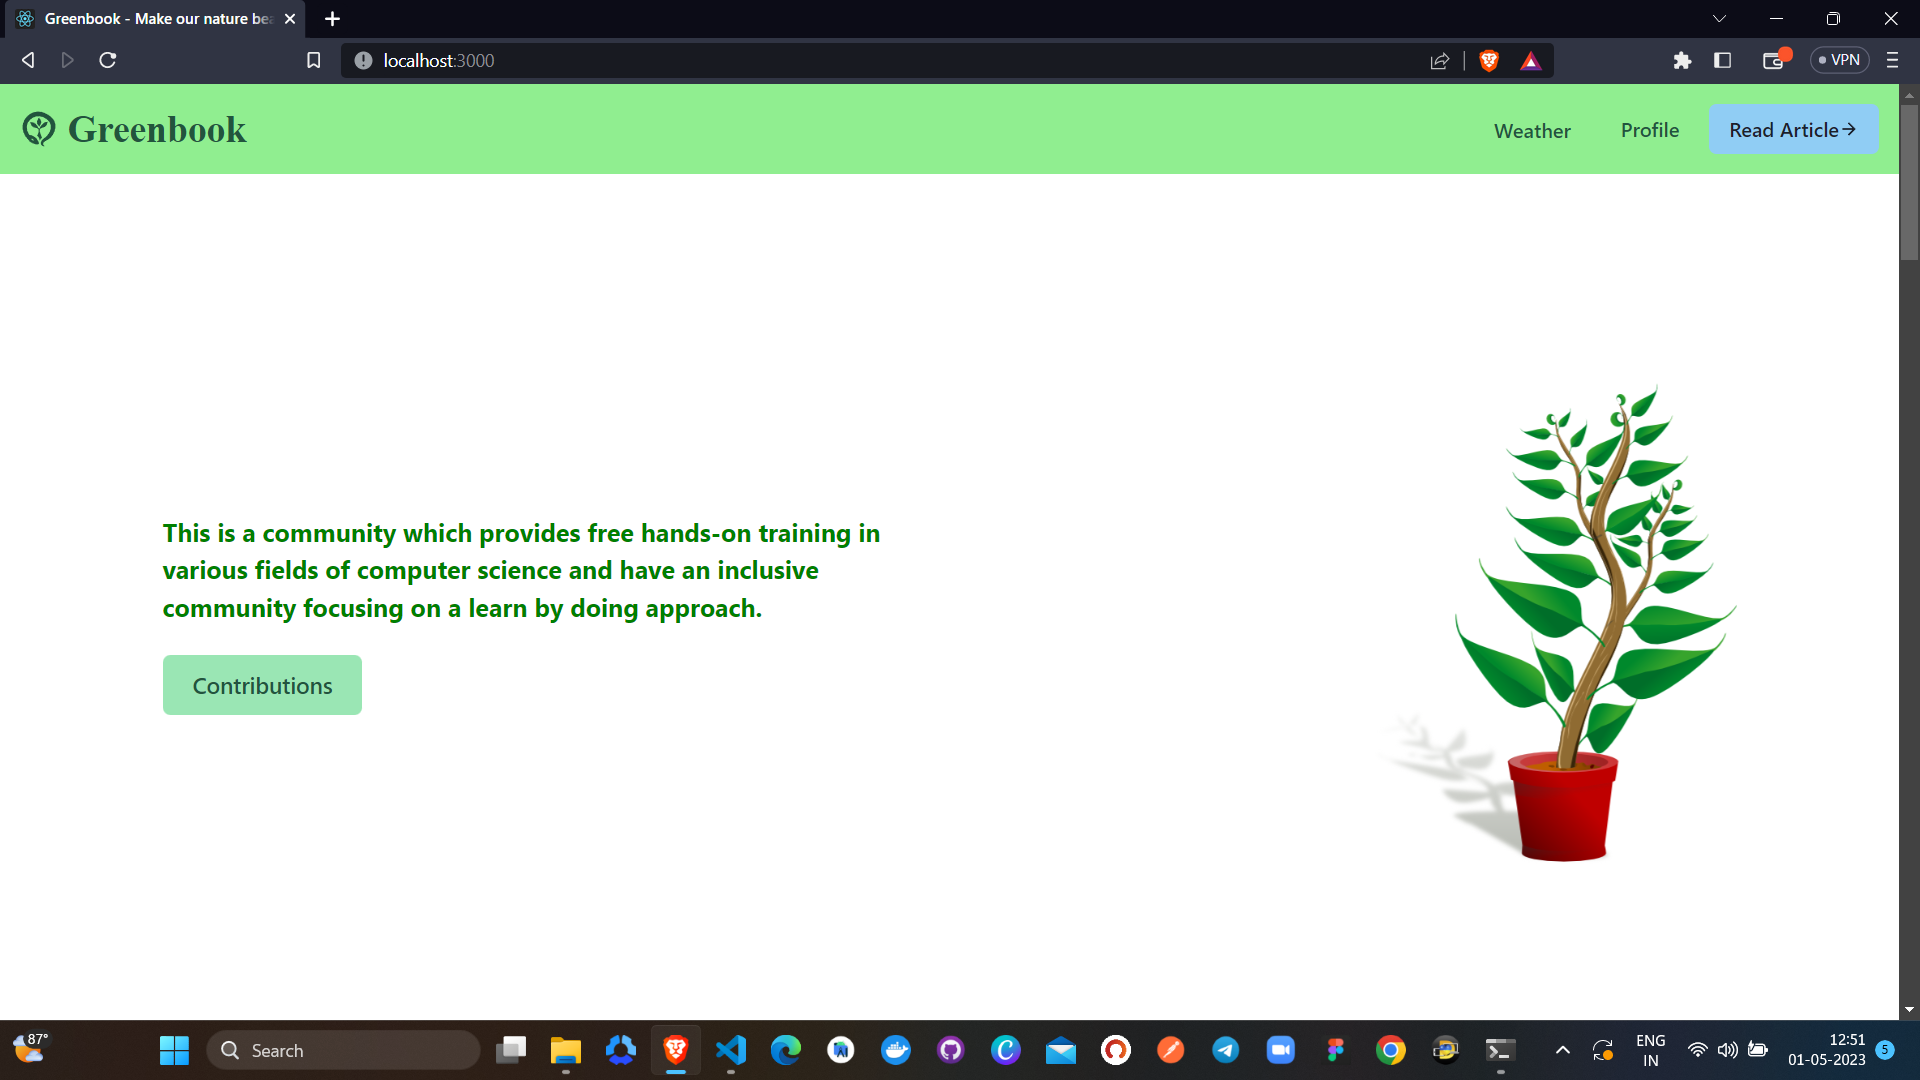
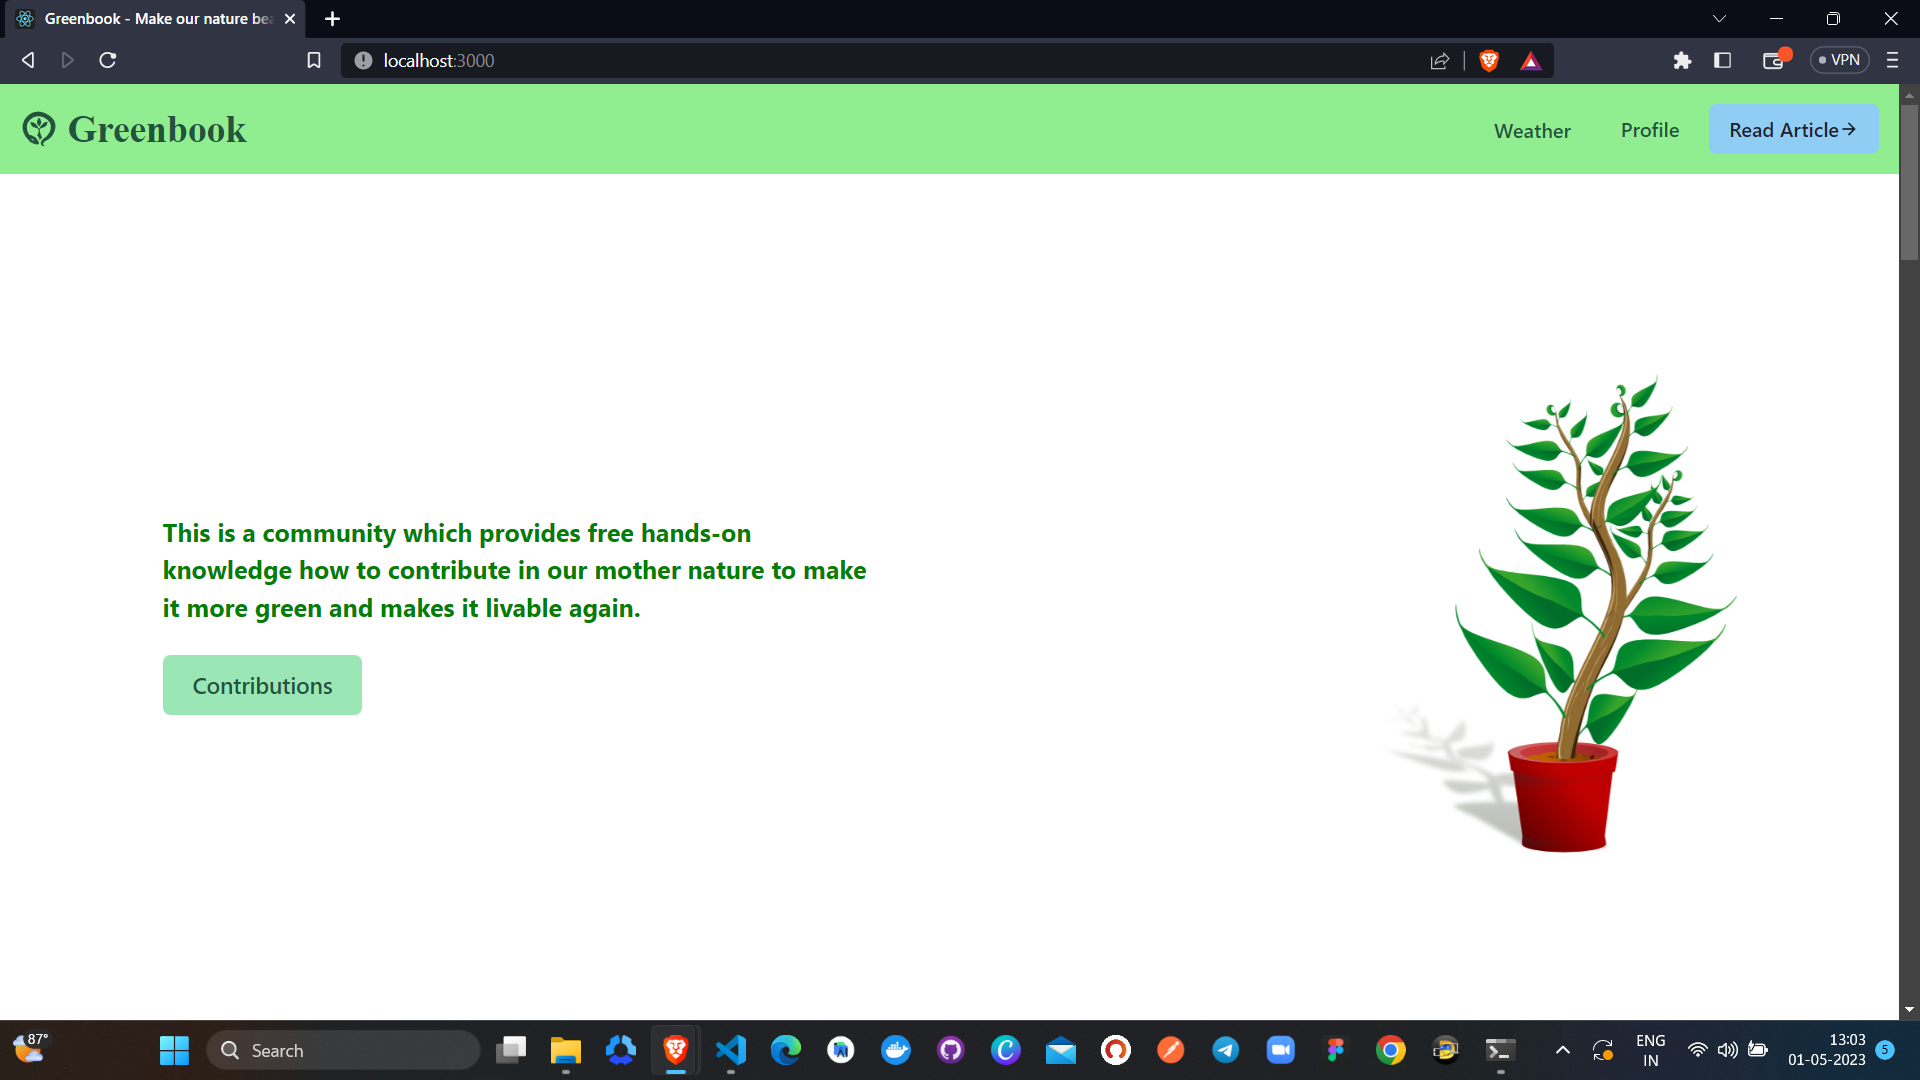
img

Changed region(s): [[0.7188, 0.3361, 0.9062, 0.7944], [0.0625, 0.4889, 0.4688, 0.5806]]

diff --git a/client/src/screens/home/Home.jsx b/client/src/screens/home/Home.jsx
@@ -22,7 +22,7 @@ const Home = () => {
                 <Stack p={["2","20"]} justifyContent={["center","space-between"]} alignItems={"center"} direction={["column", "row"]} width={"100%"} color={'green'} spacing={'6'}>
                     <VStack
                     spacing={"6"} width={"100%"} justifyContent={["center", "space-between"]} alignItems={["center", "flex-start"]}>
-                        <Text  width={["100%","xl"]} textAlign={["center","left"]} fontWeight={"bold"} fontFamily={'body'} fontSize={'xl'} children="This is a community which provides free hands-on training in various fields of computer science and have an inclusive community focusing on a learn by doing approach." />
+                        <Text  width={["100%","xl"]} textAlign={["center","left"]} fontWeight={"bold"} fontFamily={'body'} fontSize={'xl'} children="This is a community which provides free hands-on knowledge how to contribute in our mother nature to make it more green and makes it livable again." />
                         <Button color={'green.800'} variant={'solid'} colorScheme='green' size={'lg'} children='Contributions' />
                     </VStack>
                     <Image id='founder' src={HomeLogo} objectFit={"contain"} boxSize={"sm"}/>
